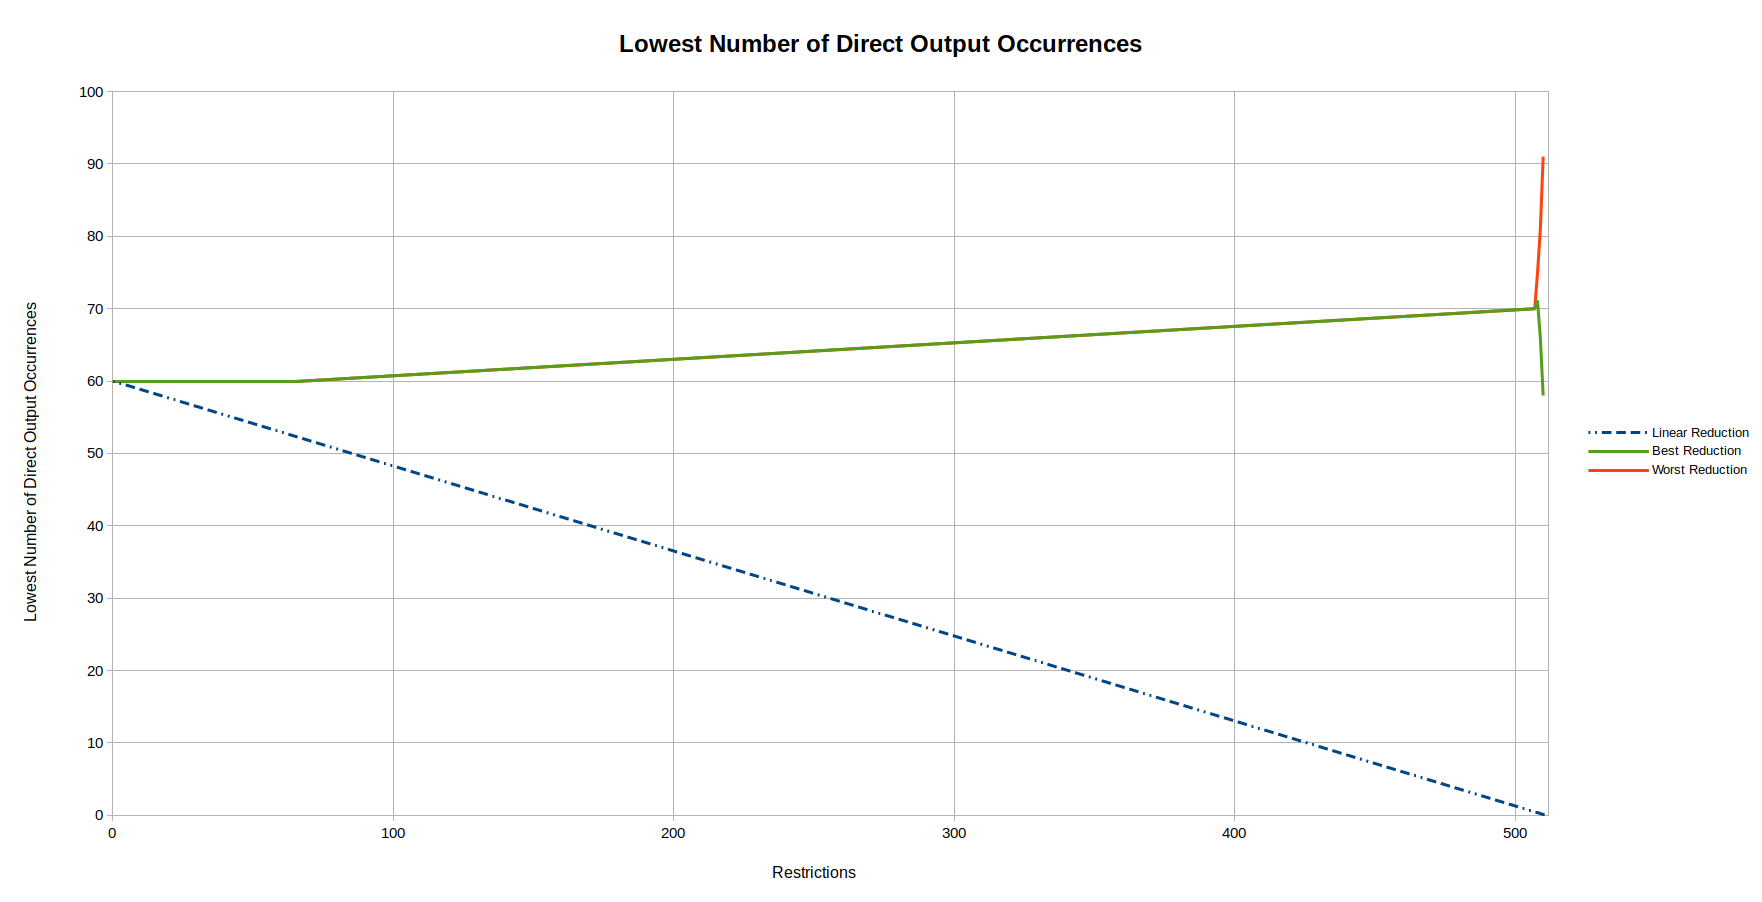
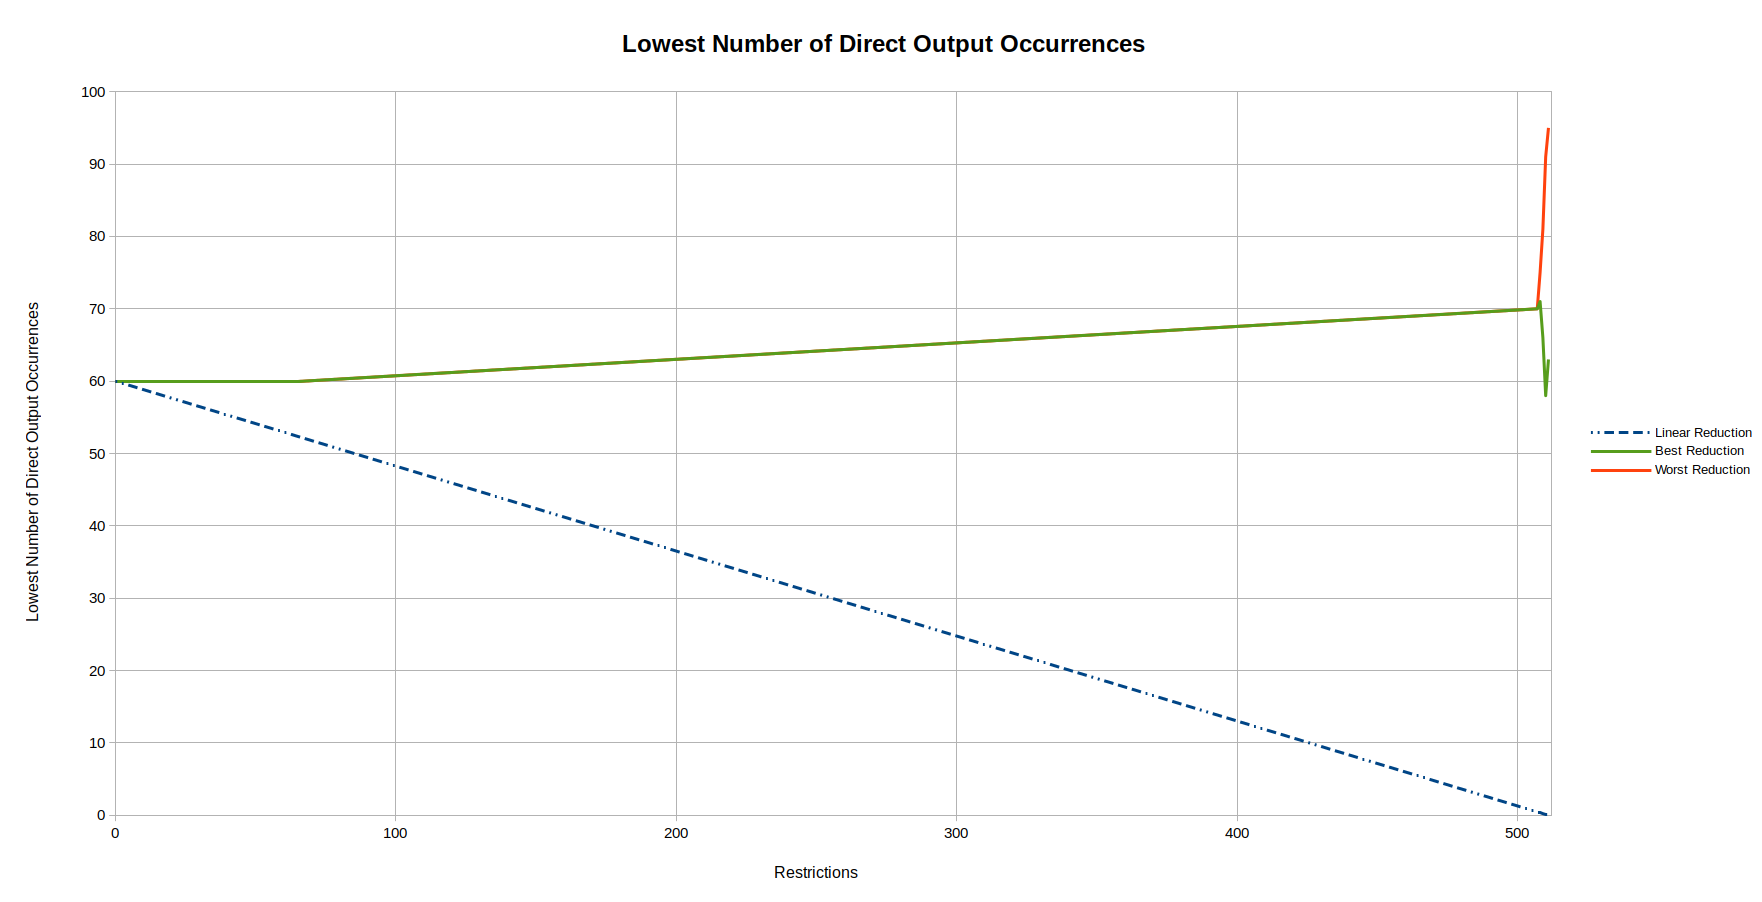
updated with new results

diff --git a/results/Overview.md b/results/Overview.md
@@ -28,7 +28,7 @@ Results better than the linear reduction are marked in bold.
 |     508      |  0               | 71             | 75              |
 |     509      |  0               | 66             | 81              |
 |     510      |  0               | 58             | 91              |
-|     511      |  0	              | ---            | ---             |
+|     511      |  0	              | ([63](511/91eaaf8008a6bd389e724be1212f62e51a13e84d.md)) | 95              |
 
 ![Lowest Number of Direct Output Occurrences](Lowest_Number_of_Direct_Output_Occurrences.png "Lowest Number of Direct Output Occurrences")
 
